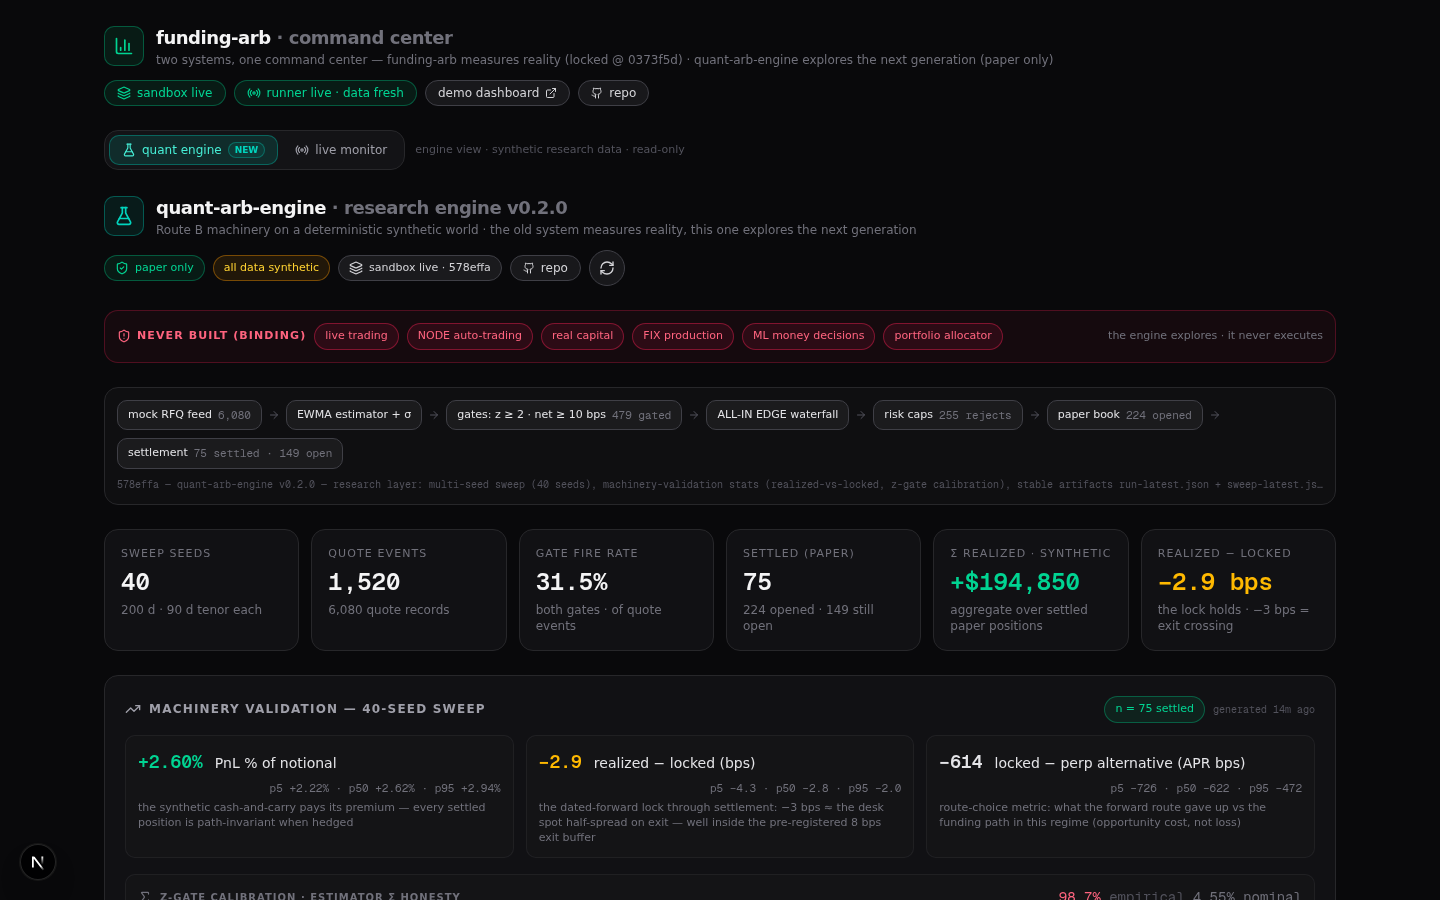
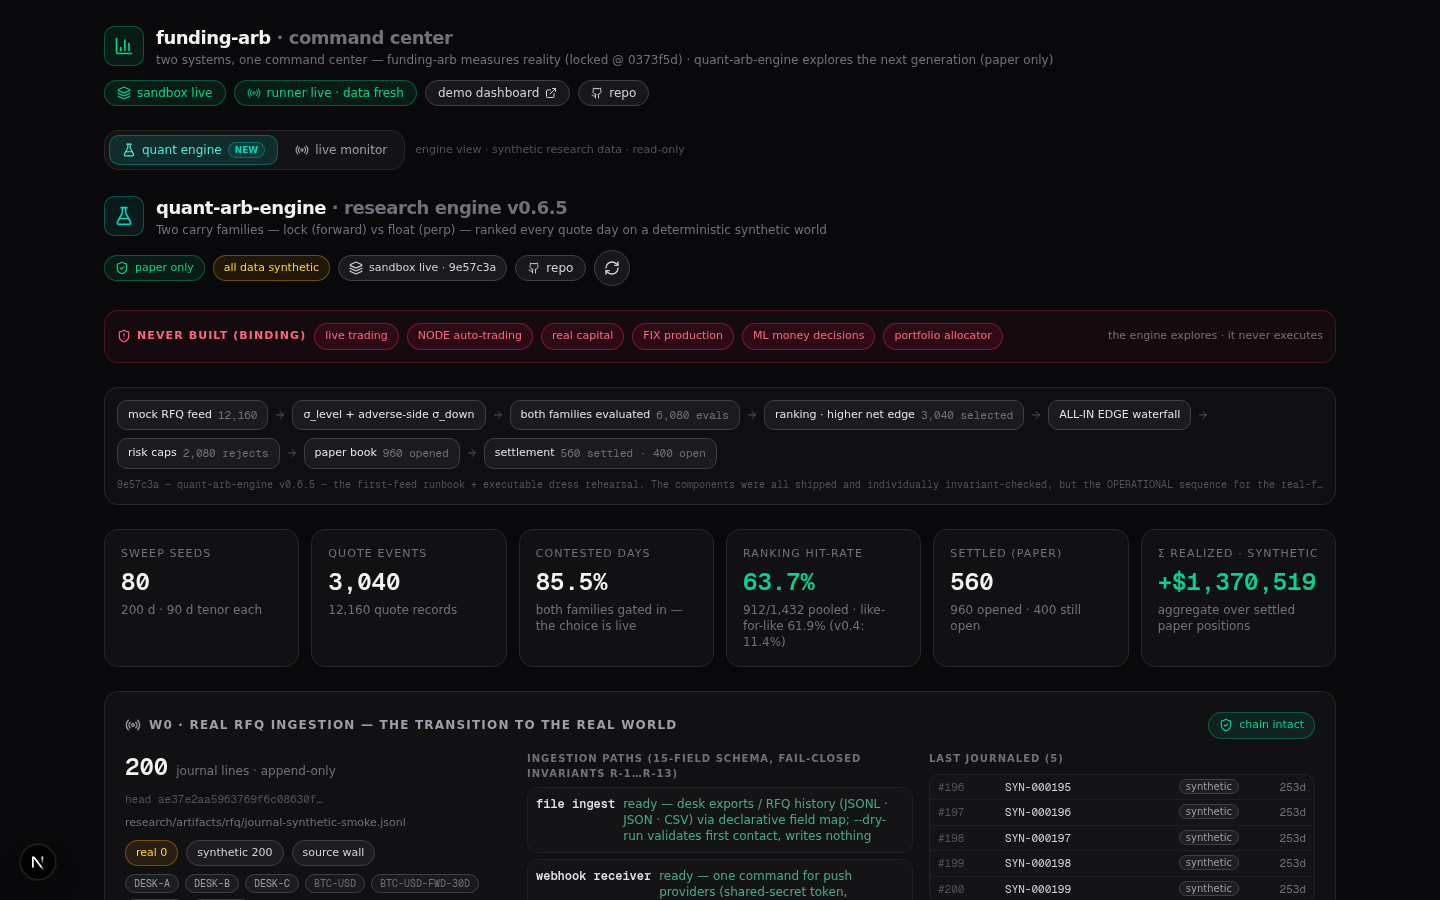
tower: README↔UI synchronization — fresh headline screenshots + phase-2 card closeup embedded + W0 bullet synced to v0.6.5. The README's four headline images had drifted from the shipped UI: data-dashboard-*.png (captured Sep 11 05:21) predated the Phase-2 discipline card (Task 36) and engine-view-*

diff --git a/README.md b/README.md
@@ -314,6 +314,8 @@ as the corrected spread-PnL view.
 
 ## Phase-2 A/B/C — window, discipline & decision support
 
+![phase-2 card](./screenshots/phase2-card-closeup.png)
+
 The monitor view's Phase-2 card makes the 7-day decision process itself visible
 and verifiable from the command center. It consumes **one artifact** —
 `report-latest.json`, overwritten by every daily verify-only run of the locked
@@ -404,16 +406,20 @@ hash-chained raw journal fed by pluggable adapters — monitored by a dedicated
 card. It renders exactly what the engine's research artifacts carry, with the
 engine's own epistemic note traveling with the data:
 
-- **W0 · real RFQ ingestion lane (v0.6, hardened v0.6.1)** — the real-world data
+- **W0 · real RFQ ingestion lane (v0.6, hardened v0.6.1 → v0.6.4)** — the real-world data
   layer's status: journal lines + chain head (hash-chain verified,
   truncation-bounded), the **source wall** chips (real vs synthetic — never
   pooled), venue/instrument census, the four ingestion paths with their honest
   states (file ingest ready with `--dry-run` first-contact validation that
-  writes nothing, webhook receiver ready, REST poller a documented W1 slot,
-  synthetic test-only), the last journaled records, and the honest amber status
+  writes nothing, webhook receiver hardened **v0.6.4** — every accepted
+  record refreshes `rfq-status.json` so this tower stays live on the
+  always-on path, REST poller a documented W1 slot, synthetic test-only),
+  the last journaled records, and the honest amber status
   line — currently **0 real records** (no desk credentials in this environment;
   the 103 invariant checks are tracked in the engine repo, reproducible via
-  `research/exploration/verify_w0_invariants.py`); descriptive ALL-IN EDGE
+  `research/exploration/verify_w0_invariants.py`; the first-feed day is
+  rehearsed end-to-end on stand-in data — engine v0.6.5's runbook +
+  executable dress rehearsal); descriptive ALL-IN EDGE
   accounting only, uncertainty → ranking → GO/NO-GO on real data is W1 and
   requires its own sealed decision record.
 - **W1-INFRA · journal replay adapter (v0.6.2) + coverage census (v0.6.3)** —
